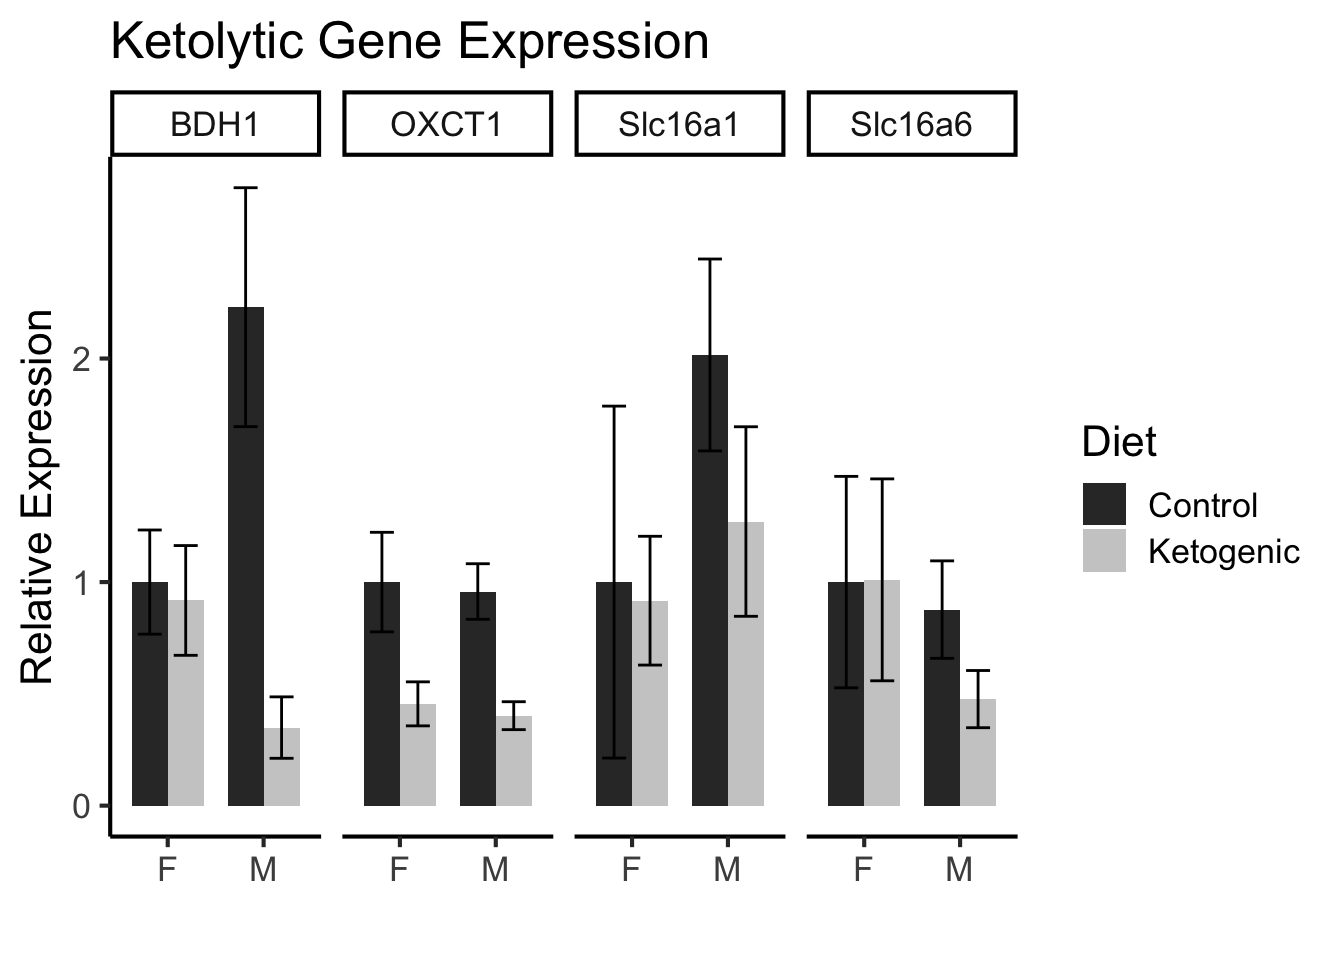
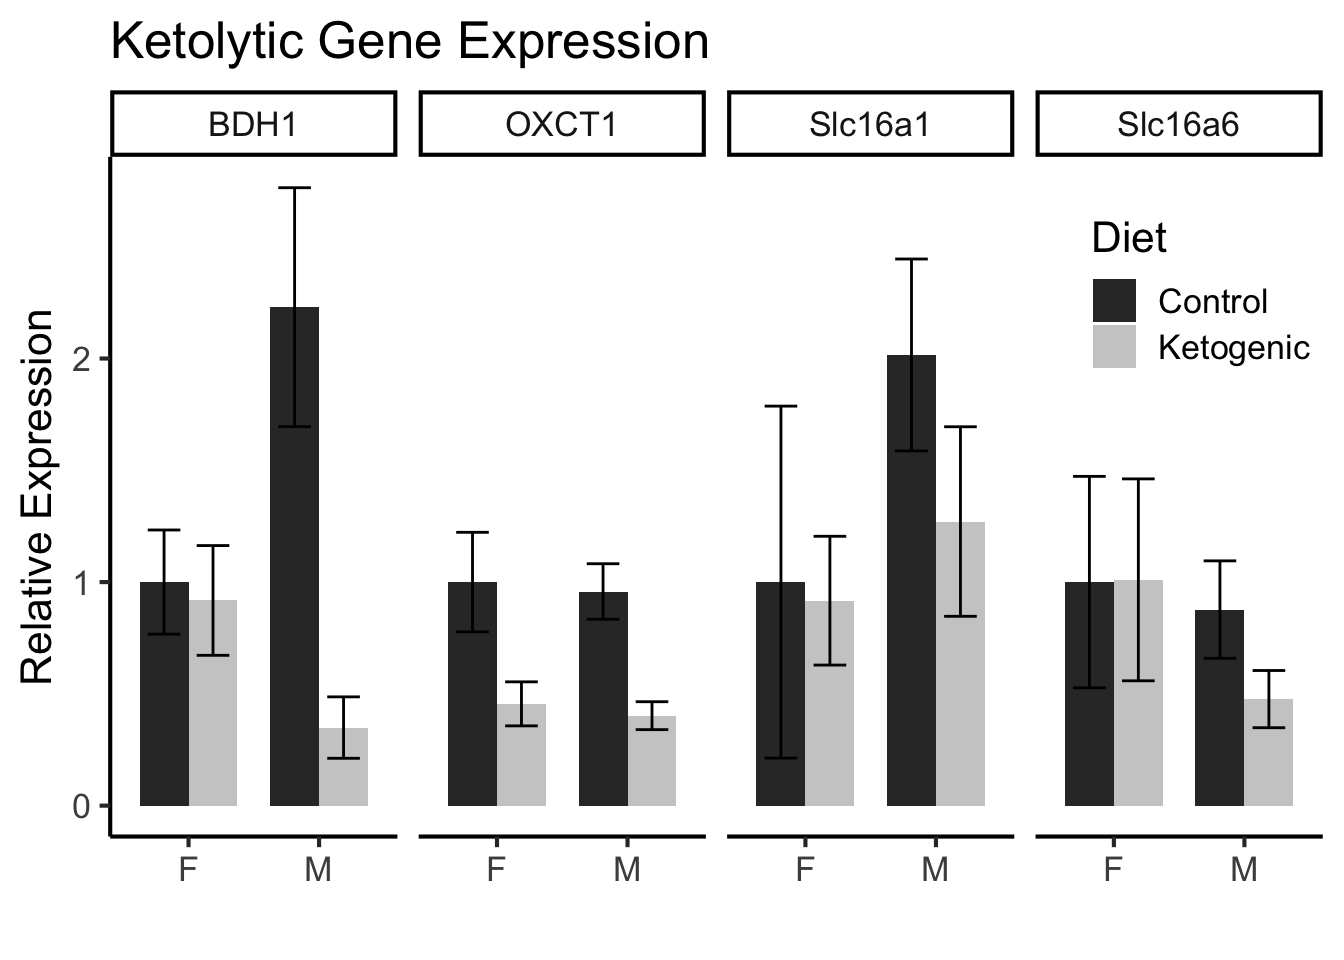
Moved figure legend for ketolysis figure

diff --git a/Mouse Data/AJ Ketogenic Diet/Muscle qPCR.html b/Mouse Data/AJ Ketogenic Diet/Muscle qPCR.html
@@ -137,7 +137,7 @@ code span.wa { color: #60a0b0; font-weight: bold; font-style: italic; } /* Warni
 
 </header>
 
-<p>This script was most recently run on Sun Nov 12 08:39:27 2023 and can be found in /Users/davebrid/Documents/GitHub/TissueSpecificTscKnockouts/Mouse Data/AJ Ketogenic Diet.</p>
+<p>This script was most recently run on Sun Nov 12 09:01:24 2023 and can be found in /Users/davebrid/Documents/GitHub/TissueSpecificTscKnockouts/Mouse Data/AJ Ketogenic Diet.</p>
 <section id="purpose" class="level1">
 <h1>Purpose</h1>
 <p>Analyse mRNA expression from AJ Muscles</p>
@@ -457,7 +457,8 @@ code span.wa { color: #60a0b0; font-weight: bold; font-style: italic; } /* Warni
 <span id="cb8-11"><a href="#cb8-11" aria-hidden="true" tabindex="-1"></a>       <span class="at">y=</span><span class="st">"Relative Expression"</span>,</span>
 <span id="cb8-12"><a href="#cb8-12" aria-hidden="true" tabindex="-1"></a>       <span class="at">x=</span><span class="st">""</span>) <span class="sc">+</span></span>
 <span id="cb8-13"><a href="#cb8-13" aria-hidden="true" tabindex="-1"></a>  <span class="fu">scale_fill_grey</span>() <span class="sc">+</span></span>
-<span id="cb8-14"><a href="#cb8-14" aria-hidden="true" tabindex="-1"></a>  <span class="fu">theme_classic</span>(<span class="at">base_size =</span> <span class="dv">16</span>) </span></code><button title="Copy to Clipboard" class="code-copy-button"><i class="bi"></i></button></pre></div>
+<span id="cb8-14"><a href="#cb8-14" aria-hidden="true" tabindex="-1"></a>  <span class="fu">theme_classic</span>(<span class="at">base_size =</span> <span class="dv">16</span>) <span class="sc">+</span></span>
+<span id="cb8-15"><a href="#cb8-15" aria-hidden="true" tabindex="-1"></a>  <span class="fu">theme</span>(<span class="at">legend.position=</span><span class="fu">c</span>(<span class="fl">0.9</span>,<span class="fl">0.8</span>))</span></code><button title="Copy to Clipboard" class="code-copy-button"><i class="bi"></i></button></pre></div>
 <div class="cell-output-display">
 <p><img src="figures/ketolytic-muscle-expression-1.png" class="img-fluid" width="672"></p>
 </div>
